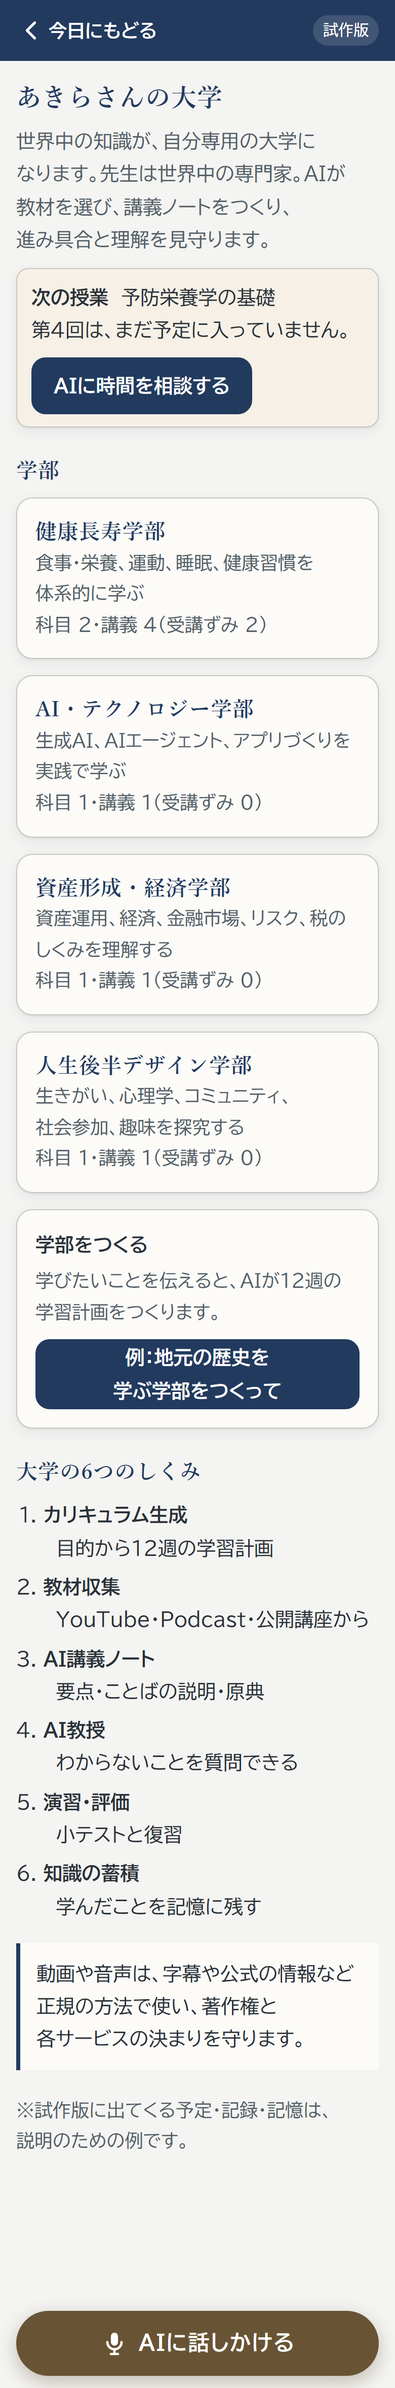
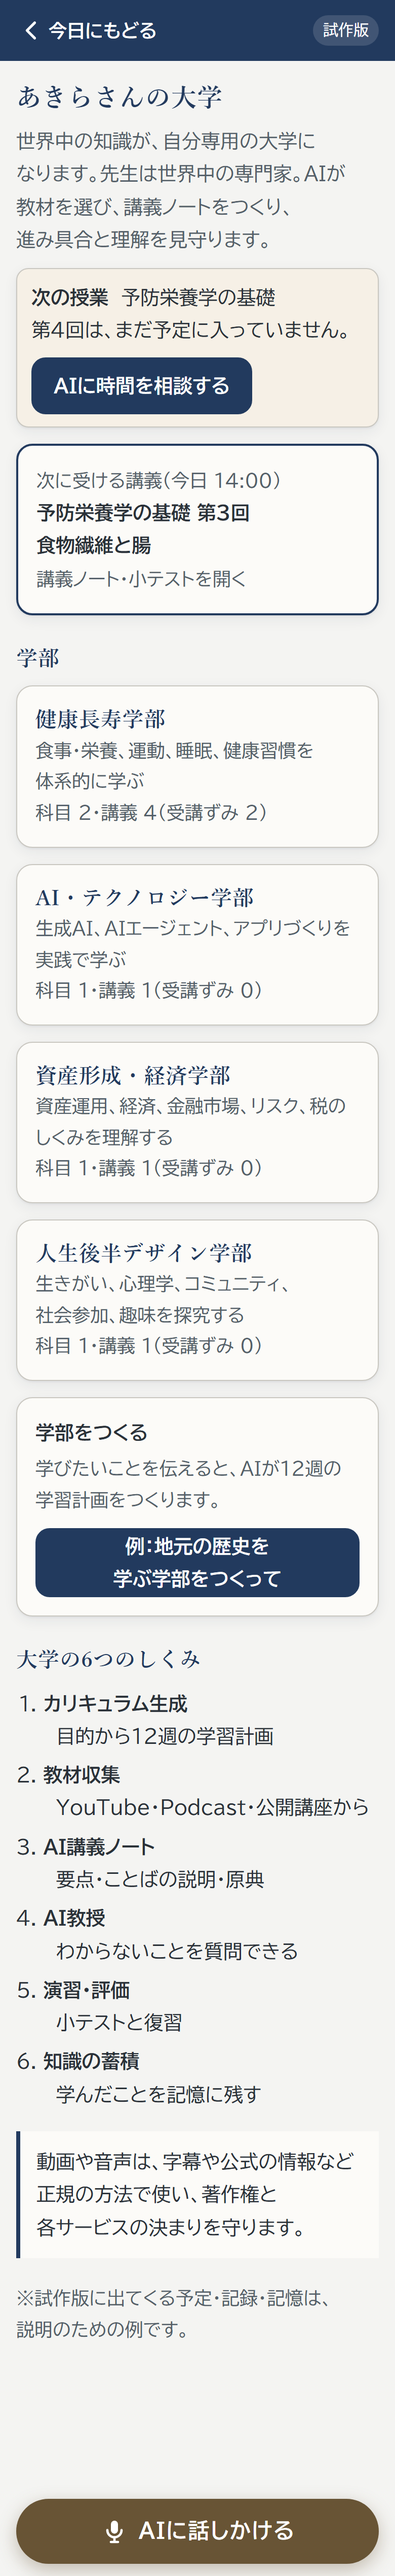
v0.2 再審査の指摘（中・低）を反映：未受講の講義に小テストを付け、大学から「次に受ける講義」へ入れるように／予定名と返事をそろえる／投資が空のときの表示

diff --git a/app.js b/app.js
@@ -51,7 +51,7 @@
         { id: 'c1', name: '予防栄養学の基礎', plan: '全8回・1回45分', lectures: [
           doneLec(lec('l1', '第1回　食事と体のつながり', 'YouTube（大学の公開講座の例）', ['毎日の食事は、体をつくる材料になる', '一度に変えるより、続けられる小さな工夫が大切とされている', '気になる体の変化は、医師に相談する'], [['栄養素', '食べ物にふくまれ、体の働きを助ける成分']], { q: '食事を見直すとき、よいとされる進め方はどれ？', choices: ['一度に全部を変える', '続けられる小さな工夫から始める'], answer: 1 })),
           doneLec(lec('l2', '第2回　たんぱく質と筋肉', 'Podcast（栄養の専門家の解説の例）', ['筋肉の材料のひとつが、たんぱく質', '食事と体を動かすことを組み合わせるのが大切とされている'], [['たんぱく質', '肉・魚・卵・大豆などに多い栄養素']], { q: '筋肉の材料のひとつはどれ？', choices: ['たんぱく質', '食物繊維'], answer: 0 })),
-          lec('l3', '第3回　食物繊維と腸', 'YouTube（公的機関の解説動画の例）', ['野菜・海藻・きのこなどに多い', '水分も一緒にとることが大切とされている'], [['食物繊維', '体で消化されにくい成分。おなかの調子を整える働きがあるとされる']], null)
+          lec('l3', '第3回　食物繊維と腸', 'YouTube（公的機関の解説動画の例）', ['野菜・海藻・きのこなどに多い', '水分も一緒にとることが大切とされている'], [['食物繊維', '体で消化されにくい成分。おなかの調子を整える働きがあるとされる']], { q: '食物繊維が多い食べ物はどれ？', choices: ['野菜・海藻・きのこ', '砂糖'], answer: 0 })
         ]},
         { id: 'c2', name: '無理なく続ける運動', plan: '全6回・1回30分', lectures: [
           lec('l4', '第1回　歩くことから始める', 'YouTube（運動指導者の解説の例）', ['自分のペースで、続けられる時間から', '体調がすぐれない日は休む'], [], null)
@@ -288,7 +288,8 @@
         supersede('plan');
         return { kind: 'plan', id: nid('p'), status: 'pending', evening: !!state.walkEvening, review: reviewTime(), why: planReasons() };
       case 'exercise':
-        if (state.events.some(function (e) { return e.walkClub; })) return { kind: 'text', html: '来週土曜の「朝歩こう会」は、もう予定に入っています。<a href="#/schedule">予定を見る</a>' };
+        var wc = state.events.filter(function (e) { return e.walkClub; })[0];
+        if (wc) return { kind: 'text', html: '来週土曜の「' + esc(wc.title) + '」は、もう予定に入っています。<a href="#/schedule">予定を見る</a>' };
         supersede('exercise');
         return { kind: 'exercise', id: nid('x'), status: 'pending', avg: avgSteps(), thirty: remembers(/30分/), club: state.sources.some(function (s) { return /朝歩こう会/.test(s.name); }) };
       case 'faculty':
@@ -442,7 +443,7 @@
       (state.guideClosed ? '' :
       '<section class="guide" aria-label="この試作版の見どころ">' +
         '<h2>はじめての方へ　3分の見どころ</h2>' +
-        '<ol><li>「相談する」を押し、AIの提案を見て「<span class="nw">この予定で登録する</span>」</li><li>「AIに話しかける」で「最近運動不足だから、何か始めたい」を押す（健康・地域の会・大学をまたいだ提案）</li><li>「大学」で、学部・講義・小テストを見る</li><li>「すべて」で、人生の情報がつながる全体像を見る</li></ol>' +
+        '<ol><li>「相談する」を押し、AIの提案を見て「<span class="nw">この予定で登録する</span>」</li><li>「AIに話しかける」で「最近運動不足だから、何か始めたい」を押す（健康・地域の会・大学をまたいだ提案）</li><li>「大学」で「次に受ける講義」を開き、小テストと「受講した」を試す</li><li>「すべて」で、人生の情報がつながる全体像を見る</li></ol>' +
         '<div class="row"><button class="btn quiet" data-act="close-guide">わかりました</button></div>' +
       '</section>') +
       '<div class="stack" style="margin-top:18px">' +
@@ -669,6 +670,7 @@
         (nu ? '<p><b>次の授業</b>　' + esc(label(fromKey(nu.date)) + ' ' + nu.time) + '<br>' + t(nu.title) + '<br><span class="small">予定に入っています</span></p>'
             : '<p><b>次の授業</b>　予防栄養学の基礎 <span class="nw">第4回</span>は、まだ予定に入っていません。</p><button class="btn" style="margin-top:10px" data-act="consult">AIに時間を相談する</button>') +
       '</div>' +
+      '<a class="card next-lecture" href="#/lecture/f1/c1/l3"><span class="small">次に受ける講義（今日 14:00）</span><br><b>予防栄養学の基礎 <span class="nw">第3回</span>　食物繊維と腸</b><br><span class="small">講義ノート・小テストを開く</span></a>' +
       '<h2 class="section-title">学部</h2><div class="stack">' +
         state.univ.map(function (f) {
           var n = 0, d = 0; f.courses.forEach(function (c) { c.lectures.forEach(function (l) { n++; if (l.done) d++; }); });
@@ -769,7 +771,7 @@
   function renderInvest() {
     view.innerHTML = head('投資', '気になる投資のテーマを並べておきます。AIはニュースやことばの説明を集めますが、投資の判断はかわりにしません。') +
       '<form id="f-invest" class="form inline"><label class="grow">テーマを追加<input type="text" name="theme" required placeholder="例：高配当株"></label><button class="btn" type="submit">追加</button></form>' +
-      '<div class="stack" style="margin-top:14px">' + state.invest.map(function (x) {
+      '<div class="stack" style="margin-top:14px">' + (state.invest.length ? '' : '<p class="empty">まだありません。気になるテーマを追加してください</p>') + state.invest.map(function (x) {
         return '<article class="card"><h3>' + esc(x.theme) + '</h3>' + (x.note ? '<p class="small">' + esc(x.note) + '</p>' : '') +
           '<div class="row" style="margin-top:10px"><button class="btn secondary" data-act="say-go" data-text="' + esc(x.theme) + 'ってなに？">AIに聞く</button><button class="btn quiet" data-act="del-invest" data-id="' + x.id + '">外す</button></div></article>';
       }).join('') + '</div>' +

diff --git a/styles.css b/styles.css
@@ -376,6 +376,7 @@ svg { display: block; }
 .chart .cl { font-size: 15px; fill: var(--muted); font-family: var(--sans); }
 
 .faculty { display: block; text-decoration: none; }
+.next-lecture { display: block; margin-top: 16px; text-decoration: none; border: 2px solid var(--navy); }
 .faculty h3 { font-family: var(--serif); font-size: 21px; color: var(--navy); }
 .course { margin-top: 16px; }
 .lectures { list-style: none; margin: 10px 0 0; padding: 0; }
